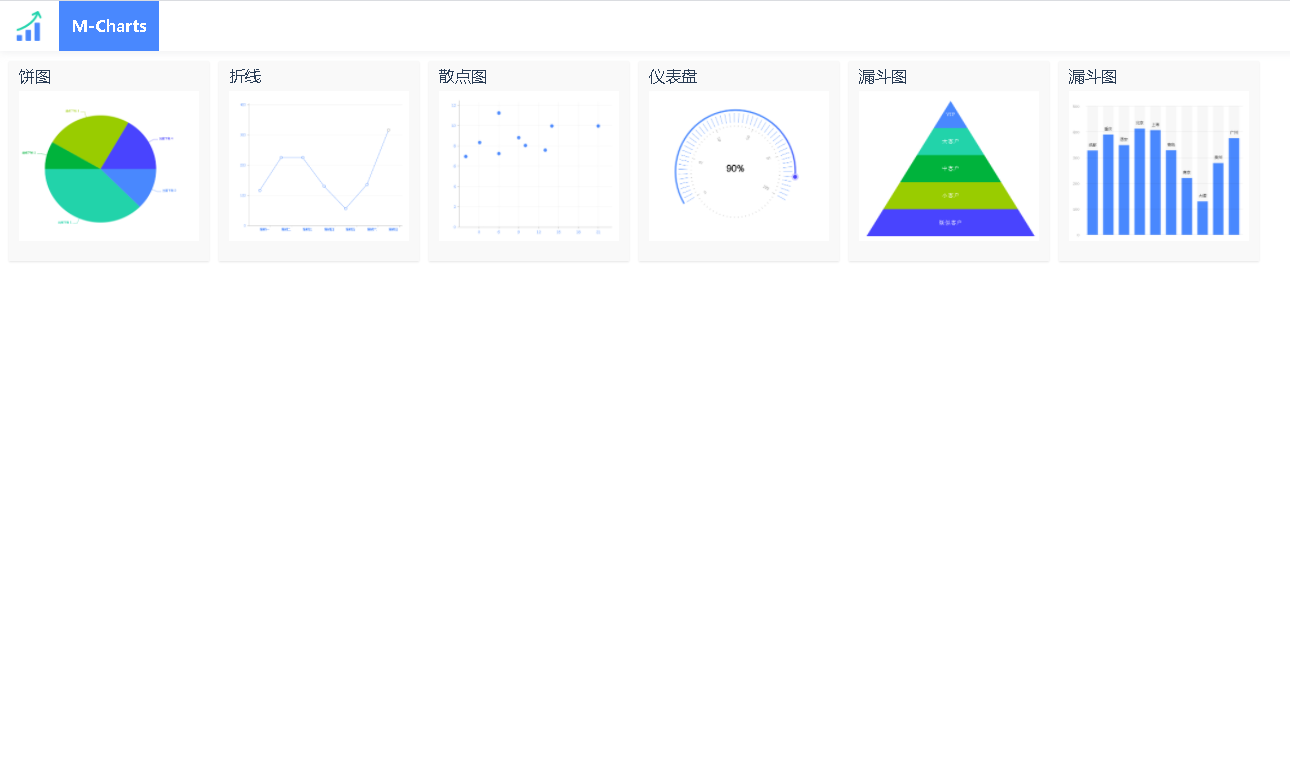
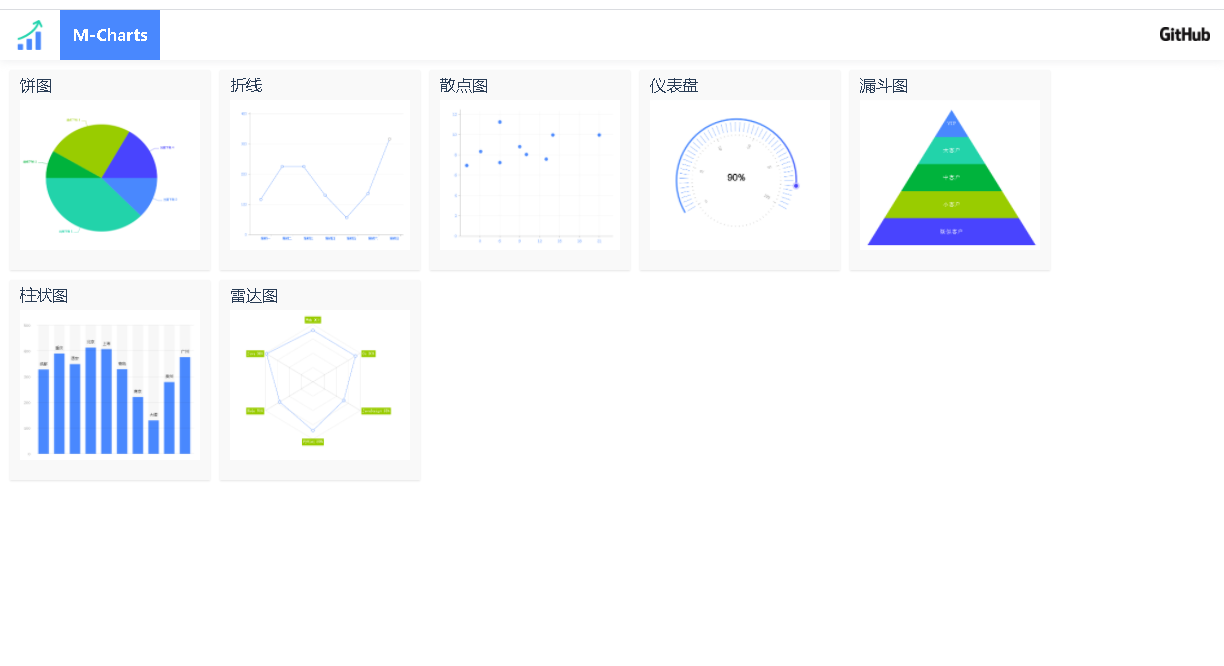
add radar

diff --git a/src/charts/shape/radar/radar.tsx b/src/charts/shape/radar/radar.tsx
@@ -2,6 +2,7 @@
 import * as React from 'react';
 import { init, getEventCoordinates } from '../../provider/canvas';
 import "./radar.scss";
+import { array } from 'prop-types';
 class RadarComponent extends React.Component {
     canvas:any;
     ctx:any;
@@ -20,10 +21,35 @@ class RadarComponent extends React.Component {
 
     initData() {
         this.config = {
+            CENTER_X:300.5, // 起始点x
+            CENTER_Y:250.5, // 起始点y
+            ANGULAR: Math.PI /3, //转角角度
+            LINE_WIDTH:200, // 线条长度
+            COUNT:6, // 维度个数
+            MAX_VAL:100, // 最大值
+            TEXT_PEDDING: 10 // 文本间距
          
         }
         this.data = [
-   
+            {
+                name:"JavaScript",
+                value:65
+            },{
+                name:"Python",
+                value:85
+            },{
+                name:"Node",
+                value:70
+            },{
+                name:"Java",
+                value:98
+            },{
+                name:"Web",
+                value:90
+            },{
+                name:"Go",
+                value:90
+            },
         ]
 
     }
@@ -40,9 +66,141 @@ class RadarComponent extends React.Component {
         this.clientRect = this.canvas.getBoundingClientRect();
     }
 
+    // drawText
+    drawText(val:string ,x: number, y:number, state?:string) {
+        this.ctx.fillStyle = '#99cc00';
+        if(state === 'left') {
+            this.ctx.fillRect(x - 5 , y - 10, this.ctx.measureText(val).width + 10, 24);
+        }else if(state === 'right') {
+            this.ctx.fillRect(x - 5 - this.config.TEXT_PEDDING - this.ctx.measureText(val).width + 10, y - 10, this.ctx.measureText(val).width + 10, 24);
+        }else if(state === 'bottom'){
+            this.ctx.fillRect(x - 5 - this.ctx.measureText(val).width /2 , y - 8 - this.config.TEXT_PEDDING, this.ctx.measureText(val).width + 10, 24);
+        }else {
+            this.ctx.fillRect(x - 5 - this.ctx.measureText(val).width /2 , y - 12 + this.config.TEXT_PEDDING, this.ctx.measureText(val).width + 10, 24);
+        }
+        this.ctx.fillStyle = '#fff';
+        this.ctx.fillText( val , x, y );
+    }
 
     drawInit() {
-   
+        this.ctx.strokeStyle = 'rgba(0,0, 0, 0.2)';
+        this.ctx.lineWidth = 1;
+        let startAngular = Math.PI / 6;
+        let points:Array<Array<any>> = [[]];
+        let args = []; // 角度数组
+
+        // 绘制线条
+        this.ctx.font = "14px serif";
+        for(let i=0;i<this.config.COUNT;i++) {
+            this.ctx.beginPath();
+            let angular = startAngular + this.config.ANGULAR * i;
+            args.push(angular)
+            this.ctx.moveTo(this.config.CENTER_X, this.config.CENTER_Y);
+            let x = (this.config.CENTER_X + this.config.LINE_WIDTH * Math.cos(angular)).toFixed(2);
+            let y = (this.config.CENTER_Y + this.config.LINE_WIDTH * Math.sin(angular)).toFixed(2);
+            this.ctx.lineTo(x, y);
+            this.ctx.textBaseline = 'middle';
+            this.ctx.strokeStyle = 'rgba(0,0, 0, 0.2)';
+            if(this.config.CENTER_X < x) {
+                this.ctx.textAlign = 'left';
+                let _x = parseInt( x ) + this.config.TEXT_PEDDING;
+                this.drawText(this.data[i].name + " " + this.data[i].value + "%", _x,  y, 'left')
+            }else if(this.config.CENTER_X == x) {
+                this.ctx.textAlign = 'center';
+                if(this.config.CENTER_Y < y) {
+                    this.ctx.textBaseline = 'top';
+                    this.drawText(this.data[i].name + " " + this.data[i].value + "%", x , y + this.config.TEXT_PEDDING, 'top');
+                }else {
+                    this.ctx.textBaseline = 'bottom';
+                    this.drawText(this.data[i].name + " " + this.data[i].value + "%", x , y - this.config.TEXT_PEDDING, 'bottom');
+                }
+            }else {
+                this.ctx.textAlign = 'right';
+                this.drawText(this.data[i].name + " " + this.data[i].value + "%", x - this.config.TEXT_PEDDING, y, 'right');
+            }
+  
+            this.ctx.stroke();
+            for(let j=0 ;j<4;j++) {
+                let point = {
+                    x: j === 3 ? x : (this.config.CENTER_X + this.config.LINE_WIDTH / 4 * (1+ j)  * Math.cos(angular)).toFixed(2), 
+                    y: j === 3 ? y : (this.config.CENTER_Y + this.config.LINE_WIDTH  / 4 * (1+ j)* Math.sin(angular)).toFixed(2)
+                }
+
+                if(!points[j]) {
+                    points[j] = [];
+                }
+                points[j][i] = point;
+
+            }
+        }
+
+    
+
+        // 绘制区域分割
+        let len = points.length;
+        this.ctx.strokeStyle = 'rgba(0,0, 0, 0.1)';
+        for(let i=len-1;i>=0;i--) {
+            let lines =  points[i];
+            let subLen = lines.length;
+            this.ctx.beginPath();
+            for(let j=0;j<subLen;j++) {
+                let point = lines[j];
+                if(j === 0) {
+                    this.ctx.moveTo(point.x, point.y);
+                }else {
+                    this.ctx.lineTo(point.x, point.y);
+                }
+               
+            }
+            if(subLen) {
+                this.ctx.lineTo(lines[0].x, lines[0].y);
+            }
+
+            this.ctx.stroke();
+        }
+
+        // 绘制数据
+        let length = this.data.length;
+        this.ctx.strokeStyle = '#4988FE';
+        this.ctx.beginPath();
+        let dataPoints = [];
+        for(let i=0;i<length;i++) {
+            let a = args[i];
+            let data = this.data[i];
+            let val = data.value / this.config.MAX_VAL;
+            let x = (this.config.CENTER_X + this.config.LINE_WIDTH * Math.cos(a) * val).toFixed(2);
+            let y = (this.config.CENTER_Y + this.config.LINE_WIDTH * Math.sin(a) * val).toFixed(2);
+            if(i=== 0) {
+                this.ctx.moveTo(x, y);
+            }else {
+                this.ctx.lineTo(x, y);
+            }
+            dataPoints.push([x, y])
+        }
+    
+        this.ctx.strokeStyle = '#4988FE';
+        if(length) {
+            let a = args[0];
+            let data = this.data[0];
+            let val = data.value / this.config.MAX_VAL;
+            let x = (this.config.CENTER_X + this.config.LINE_WIDTH * Math.cos(a) * val).toFixed(2);
+            let y = (this.config.CENTER_Y + this.config.LINE_WIDTH * Math.sin(a) * val).toFixed(2);
+            this.ctx.lineTo(x, y);
+        }
+        this.ctx.stroke();
+
+        // 绘制坐标点
+        this.ctx.strokeStyle = '#4988FE';
+        this.ctx.fillStyle = "#fff";
+        this.ctx.lineWidth = 3;
+        for(let i=0;i<length;i++) {
+            this.ctx.beginPath();
+            let data = dataPoints[i];
+            this.ctx.arc( data[0] , data[1] , 4, 0, 2*Math.PI);
+            this.ctx.stroke();
+            this.ctx.fill();
+        }
+
     }
 
     render() {

diff --git a/src/pages/charts-list/charts-list.tsx b/src/pages/charts-list/charts-list.tsx
@@ -8,6 +8,7 @@ let imgScatter = require('./../../assets/imgs/shape/scatter.png');
 let imgGauge = require('./../../assets/imgs/shape/gauge.png');
 let imgFunnel = require('./../../assets/imgs/shape/funnel.png');
 let imgBar = require('./../../assets/imgs/shape/bar.png');
+let imgRadar = require('./../../assets/imgs/shape/radar.png');
 
 class ChartsList extends React.Component<{}, object>  {
     charts:any[] = [
@@ -44,7 +45,7 @@ class ChartsList extends React.Component<{}, object>  {
         {
             name:"雷达图",
             type:'radar',
-            thumbnail: imgBar
+            thumbnail: imgRadar
         }
     ]
     render() {
